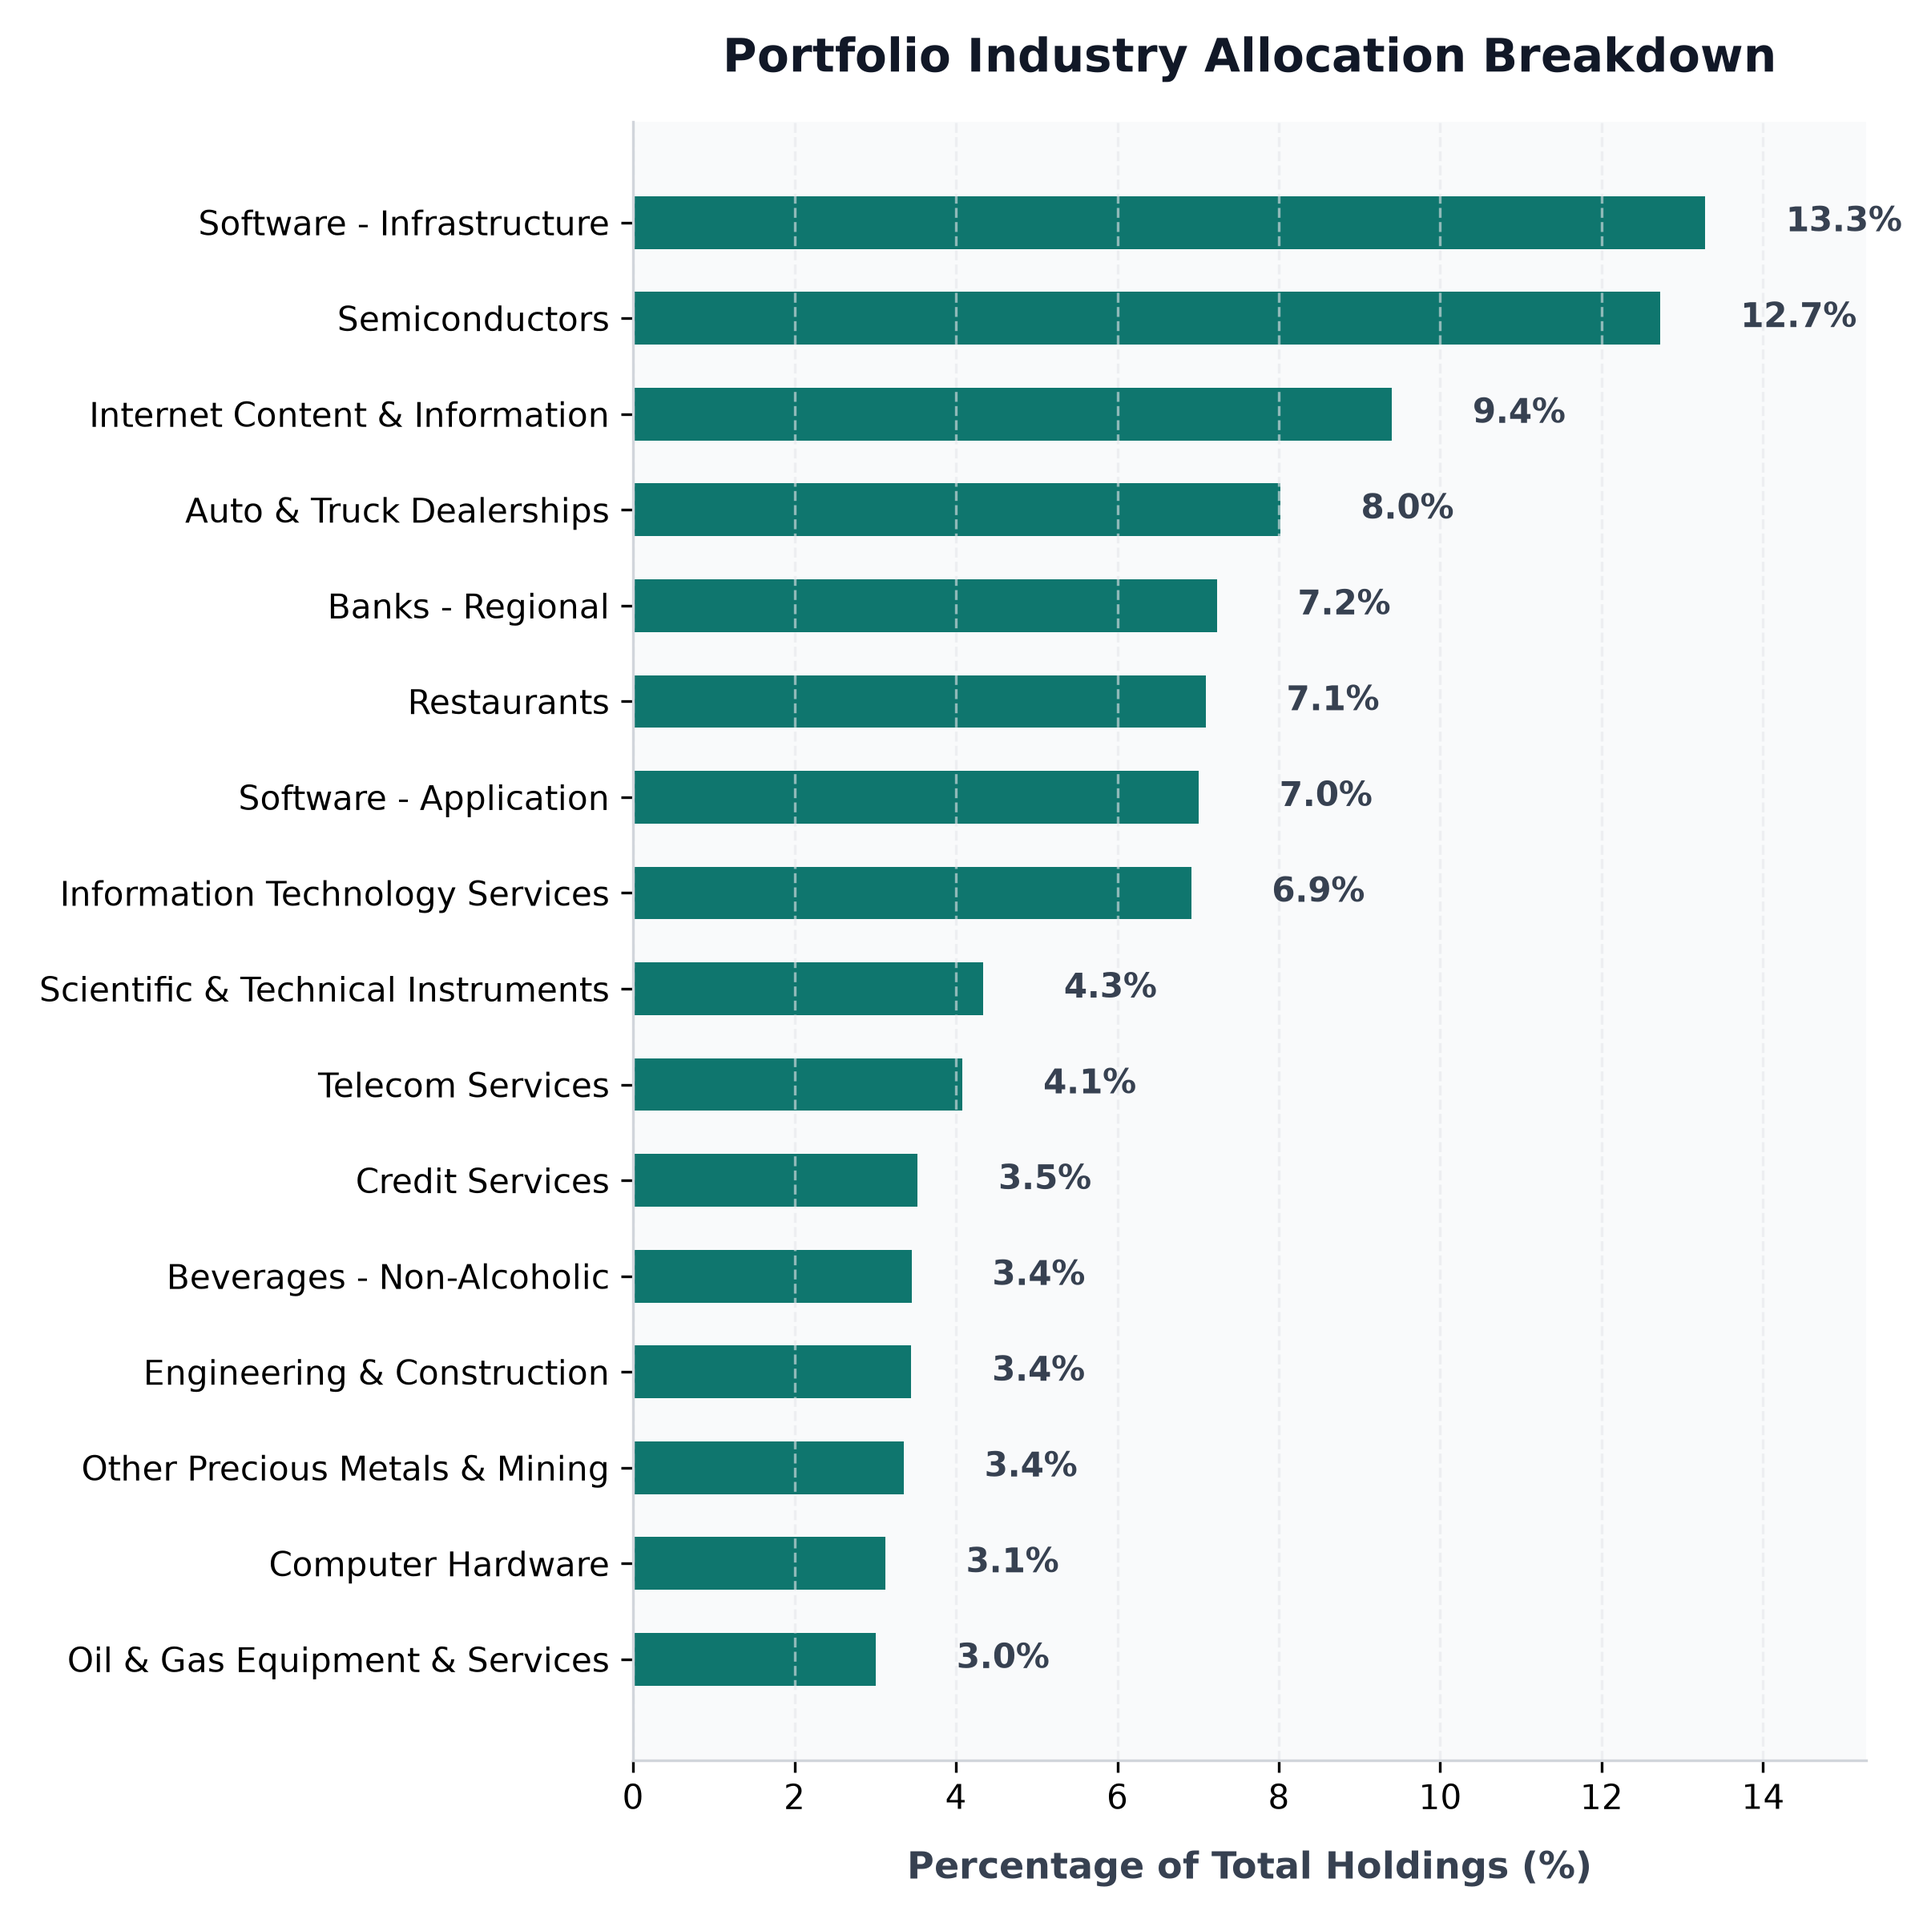
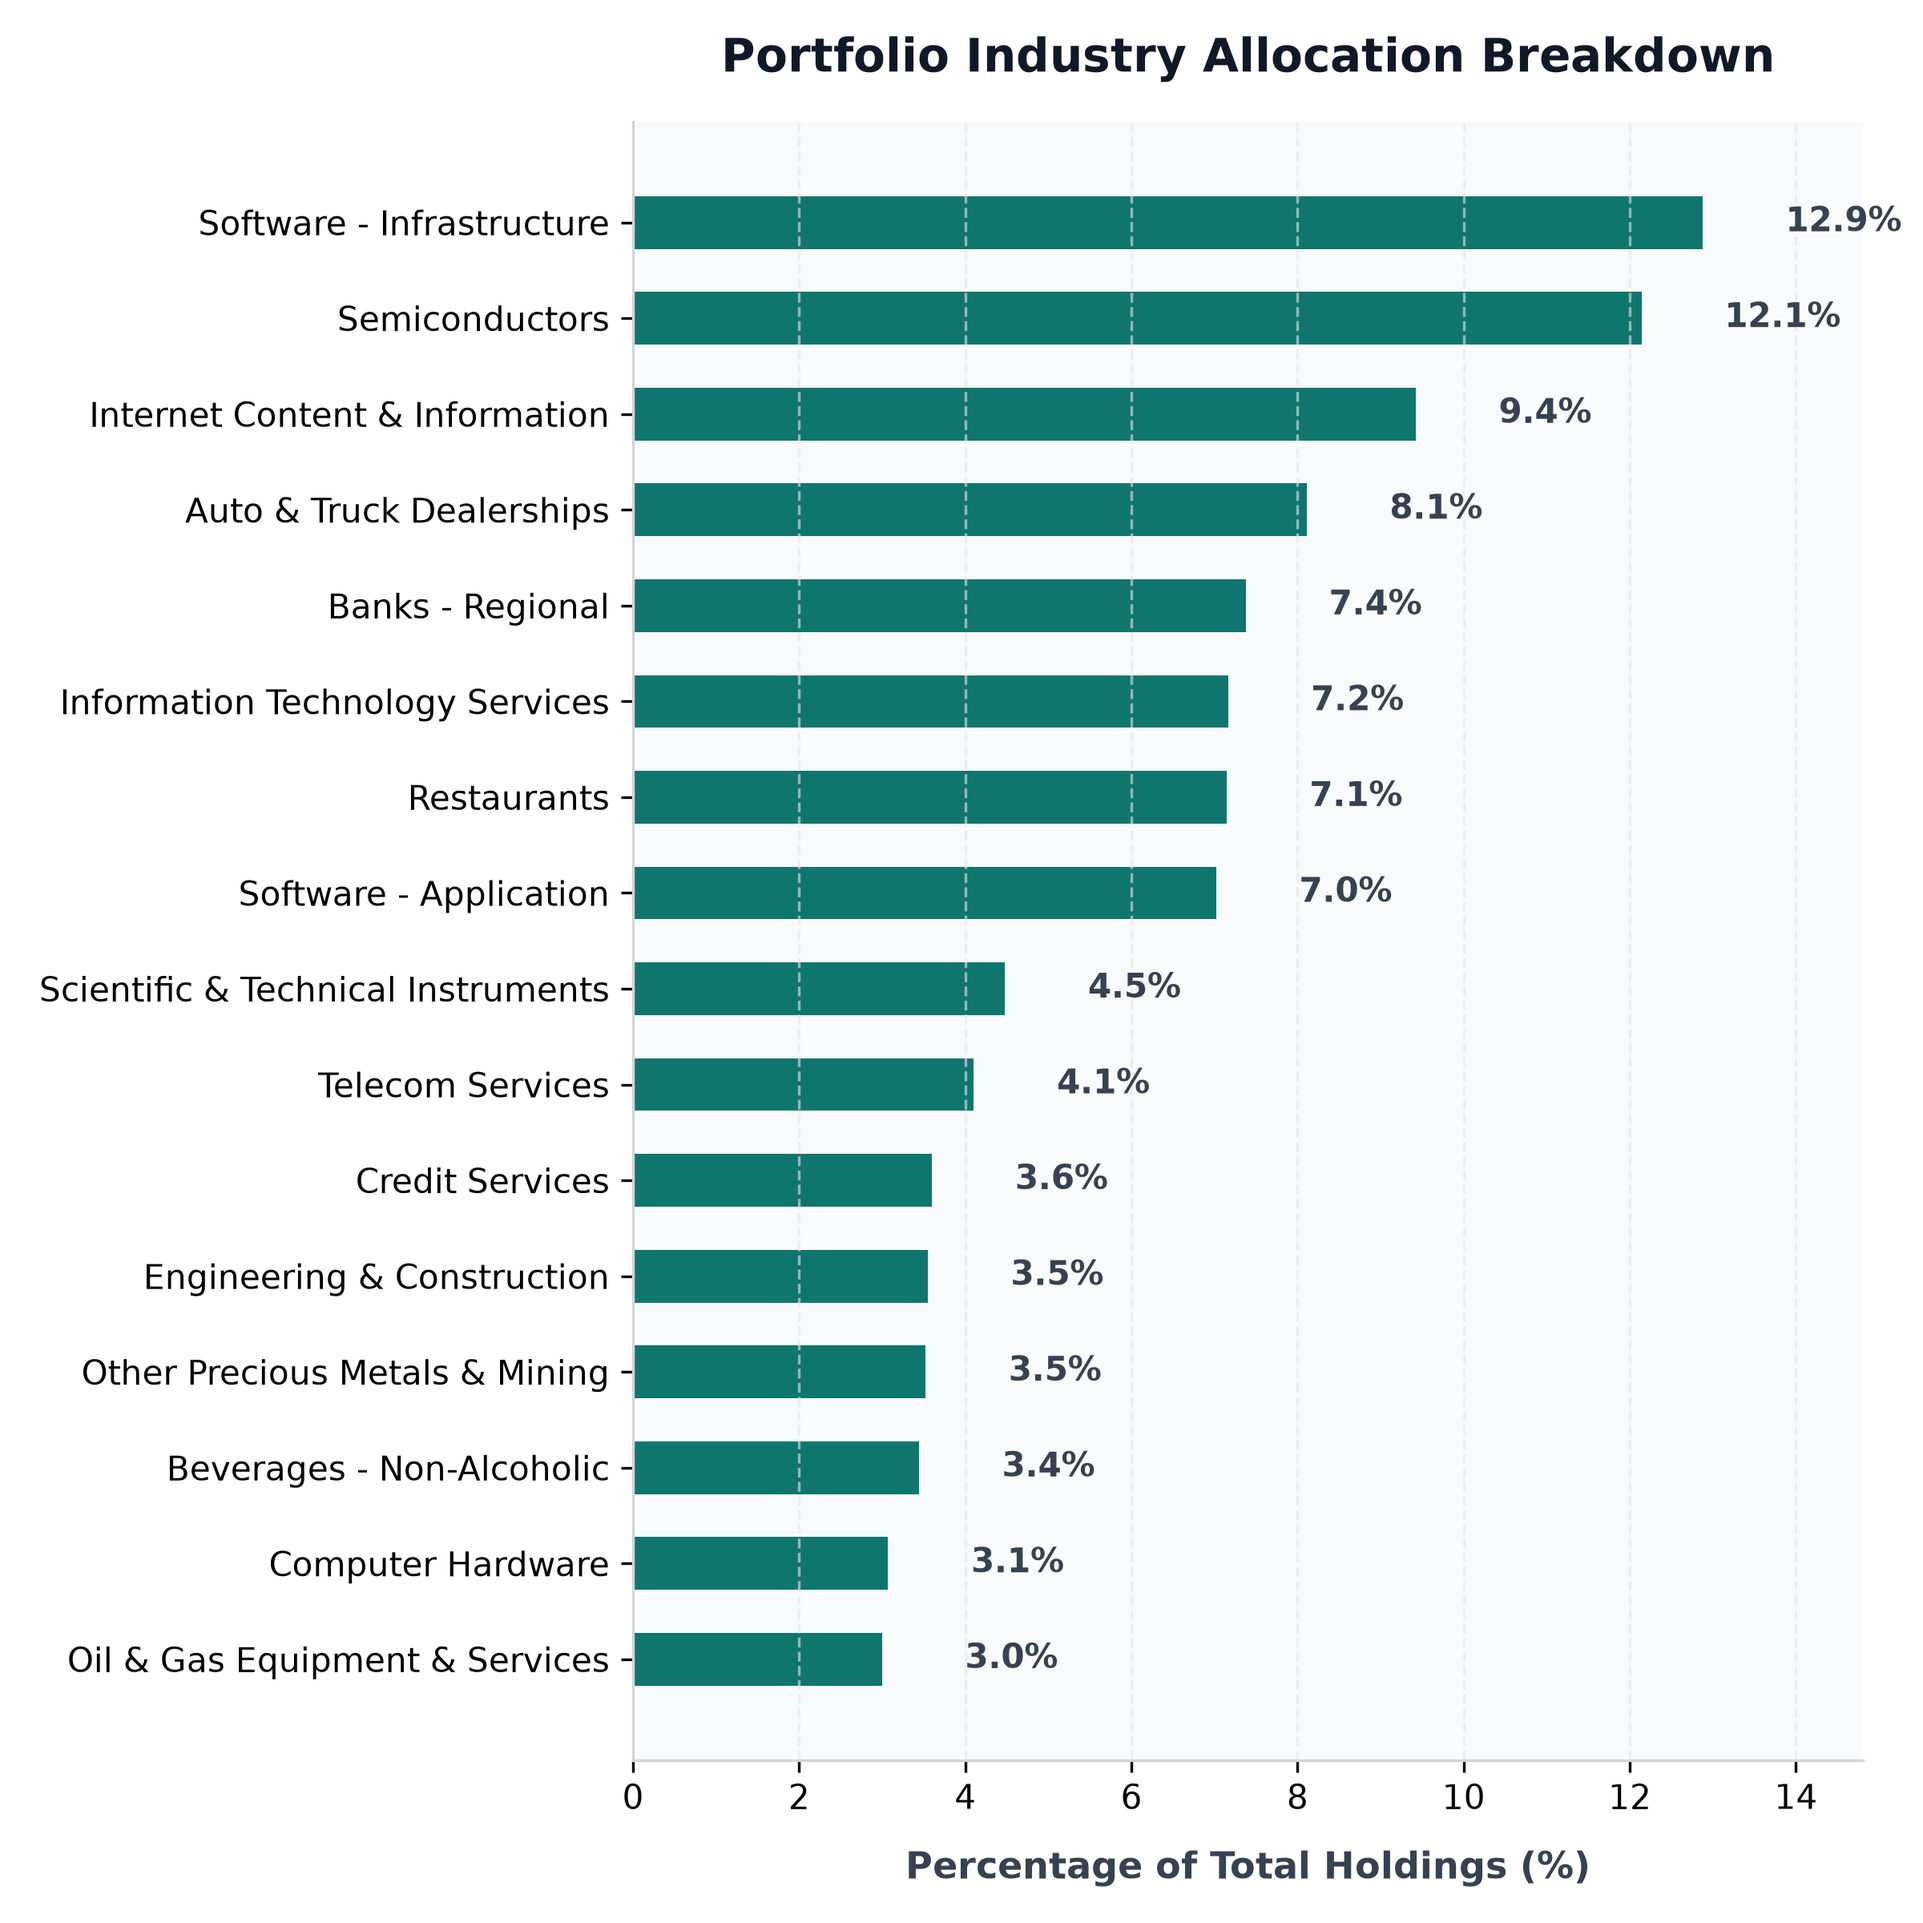
auto: daily portfolio status update - 2026-07-30 06:05:13

diff --git a/src/content/posts/portfolio-performance.md b/src/content/posts/portfolio-performance.md
@@ -1,6 +1,6 @@
 ---
 title: "BadOmen Algorithmic Portfolio Performance & PnL Report"
-pubDatetime: 2026-07-30T00:00:14.365821+08:00
+pubDatetime: 2026-07-30T06:05:13.562358+08:00
 description: "Live performance metrics, active holdings, and historic equity curve for the BadOmen automated paper trading portfolio."
 featured: true
 draft: false
@@ -16,11 +16,11 @@ Welcome to the live performance dashboard for **BadOmen**, our automated algorit
 ## 📊 Portfolio Summary
 | Performance Metric | Value | description |
 | :--- | :--- | :--- |
-| **Net Portfolio Equity** | **$100,566.59** | Total current liquidation value of cash and stock holdings |
-| **Total Unrealized P&L** | 🟢 **+$480.21** (+0.48%) | Total return of current open holdings |
-| **Cash Balance** | $72,419.80 | Idle reserve currency available for limit orders |
-| **Buying Power** | $367,584.76 | Margin-backed buying power for entry allocations |
-| **Report Updated** | `2026-07-30 00:00:14 (SGT)` | Timestamp of daily execution and sync run |
+| **Net Portfolio Equity** | **$100,053.57** | Total current liquidation value of cash and stock holdings |
+| **Total Unrealized P&L** | 🔴 **$-90.87** (-0.09%) | Total return of current open holdings |
+| **Cash Balance** | $72,628.66 | Idle reserve currency available for limit orders |
+| **Buying Power** | $366,398.95 | Margin-backed buying power for entry allocations |
+| **Report Updated** | `2026-07-30 06:05:13 (SGT)` | Timestamp of daily execution and sync run |
 
 ## 📈 Net Equity Growth Curve
 The chart below illustrates the historical performance of the account starting from our baseline capital funding of $100,000.00.
@@ -35,35 +35,36 @@ The chart below illustrates the exposure of our currently held active positions 
 ## 💼 Current Position Holdings
 | Ticker | Industry | Shares Owned | Average Entry Cost | Current Price | Unrealized P&L | Return (%) |
 | :--- | :--- | :--- | :--- | :--- | :--- | :--- |
-| **AN** | Auto & Truck Dealerships | 5 | $188.51 | $230.08 | 🟢 +$207.86 | +22.05% |
-| **AVGO** | Semiconductors | 1 | $385.71 | $372.74 | 🔴 $-12.97 | -3.36% |
-| **BVN** | Other Precious Metals & Mining | 32 | $31.88 | $29.50 | 🔴 $-76.00 | -7.45% |
-| **CELH** | Beverages - Non-Alcoholic | 33 | $29.71 | $29.43 | 🔴 $-9.49 | -0.97% |
-| **DUOL** | Software - Application | 14 | $131.04 | $140.90 | 🟢 +$137.98 | +7.52% |
-| **FIS** | Information Technology Services | 23 | $41.79 | $46.15 | 🟢 +$100.28 | +10.43% |
-| **GDDY** | Software - Infrastructure | 8 | $76.21 | $104.18 | 🟢 +$223.76 | +36.70% |
-| **GDS** | Information Technology Services | 30 | $32.77 | $29.49 | 🔴 $-98.40 | -10.01% |
-| **GGAL** | Banks - Regional | 17 | $56.04 | $48.62 | 🔴 $-126.13 | -13.24% |
-| **GOOGL** | Internet Content & Information | 3 | $319.44 | $332.95 | 🟢 +$40.53 | +4.23% |
-| **GPI** | Auto & Truck Dealerships | 3 | $316.15 | $368.77 | 🟢 +$157.86 | +16.64% |
-| **ITRI** | Scientific & Technical Instruments | 12 | $81.80 | $101.76 | 🟢 +$239.52 | +24.40% |
-| **KBR** | Engineering & Construction | 27 | $36.23 | $35.94 | 🔴 $-7.91 | -0.81% |
-| **META** | Internet Content & Information | 1 | $568.17 | $587.10 | 🟢 +$18.93 | +3.33% |
-| **NESR** | Oil & Gas Equipment & Services | 34 | $28.74 | $24.90 | 🔴 $-130.56 | -13.36% |
-| **NU** | Banks - Regional | 85 | $11.60 | $14.23 | 🟢 +$223.67 | +22.69% |
-| **ON** | Semiconductors | 10 | $90.45 | $80.78 | 🔴 $-96.75 | -10.70% |
-| **ORCL** | Software - Infrastructure | 5 | $181.95 | $116.92 | 🔴 $-325.15 | -35.74% |
-| **PATH** | Software - Infrastructure | 187 | $10.42 | $12.41 | 🟢 +$372.07 | +19.09% |
-| **PYPL** | Credit Services | 17 | $56.05 | $58.39 | 🟢 +$39.78 | +4.17% |
-| **QCOM** | Semiconductors | 15 | $193.68 | $160.00 | 🔴 $-505.27 | -17.39% |
-| **SMCI** | Computer Hardware | 33 | $29.25 | $26.66 | 🔴 $-85.64 | -8.87% |
-| **T** | Telecom Services | 47 | $20.85 | $24.45 | 🟢 +$169.20 | +17.27% |
-| **WEN** | Restaurants | 257 | $8.02 | $7.77 | 🔴 $-65.21 | -3.16% |
-| **ZG** | Internet Content & Information | 31 | $31.35 | $34.20 | 🟢 +$88.25 | +9.08% |
+| **AN** | Auto & Truck Dealerships | 5 | $188.51 | $229.98 | 🟢 +$207.36 | +22.00% |
+| **AVGO** | Semiconductors | 1 | $385.71 | $368.92 | 🔴 $-16.79 | -4.35% |
+| **BVN** | Other Precious Metals & Mining | 32 | $31.88 | $30.17 | 🔴 $-54.56 | -5.35% |
+| **CELH** | Beverages - Non-Alcoholic | 33 | $29.71 | $28.60 | 🔴 $-36.72 | -3.74% |
+| **DUOL** | Software - Application | 14 | $131.04 | $137.50 | 🟢 +$90.38 | +4.93% |
+| **FIS** | Information Technology Services | 23 | $41.79 | $46.81 | 🟢 +$115.46 | +12.01% |
+| **GDDY** | Software - Infrastructure | 6 | $76.21 | $105.10 | 🟢 +$173.34 | +37.91% |
+| **GDS** | Information Technology Services | 30 | $32.77 | $29.58 | 🔴 $-95.70 | -9.74% |
+| **GGAL** | Banks - Regional | 17 | $56.04 | $49.15 | 🔴 $-117.12 | -12.29% |
+| **GOOGL** | Internet Content & Information | 3 | $319.44 | $333.65 | 🟢 +$42.64 | +4.45% |
+| **GPI** | Auto & Truck Dealerships | 3 | $316.15 | $357.97 | 🟢 +$125.46 | +13.23% |
+| **ITRI** | Scientific & Technical Instruments | 12 | $81.80 | $102.33 | 🟢 +$246.36 | +25.10% |
+| **KBR** | Engineering & Construction | 27 | $36.23 | $36.02 | 🔴 $-5.75 | -0.59% |
+| **META** | Internet Content & Information | 1 | $568.17 | $534.99 | 🔴 $-33.18 | -5.84% |
+| **NESR** | Oil & Gas Equipment & Services | 34 | $28.74 | $24.17 | 🔴 $-155.38 | -15.90% |
+| **NU** | Banks - Regional | 85 | $11.60 | $13.97 | 🟢 +$201.96 | +20.48% |
+| **ON** | Semiconductors | 10 | $90.45 | $78.30 | 🔴 $-121.55 | -13.44% |
+| **ORCL** | Software - Infrastructure | 5 | $181.95 | $116.50 | 🔴 $-327.25 | -35.97% |
+| **PATH** | Software - Infrastructure | 187 | $10.42 | $12.39 | 🟢 +$369.12 | +18.94% |
+| **PYPL** | Credit Services | 17 | $56.05 | $58.05 | 🟢 +$34.08 | +3.58% |
+| **QCOM** | Semiconductors | 15 | $193.68 | $145.17 | 🔴 $-727.72 | -25.05% |
+| **SMCI** | Computer Hardware | 33 | $29.25 | $25.51 | 🔴 $-123.42 | -12.79% |
+| **T** | Telecom Services | 47 | $20.85 | $23.94 | 🟢 +$145.23 | +14.82% |
+| **WEN** | Restaurants | 257 | $8.02 | $7.62 | 🔴 $-102.96 | -4.99% |
+| **ZG** | Internet Content & Information | 31 | $31.35 | $33.80 | 🟢 +$75.85 | +7.80% |
 
 ## 🔴 Recent Realized Trades
 | Ticker | Shares Sold | Entry Price | Exit Price | Strategy Trigger | Realized Return | Exit Date |
 | :--- | :--- | :--- | :--- | :--- | :--- | :--- |
+| **GDDY** | 2 | $76.21 | $104.43 | Tier 1: Profit Lock (Up 30-50%) | 🟢 **+$+56.44** (++37.03%) | 2026-07-30 |
 | **GDDY** | 4 | $76.21 | $101.00 | Tier 1: Profit Lock (Up 30-50%) | 🟢 **+$+99.16** (++32.53%) | 2026-07-29 |
 | **AVGO** | 1 | $385.71 | $374.70 | Exit Strategy (Growth Decel / SMA break) | 🔴 **$-11.01** (-2.85%) | 2026-06-10 |
 
